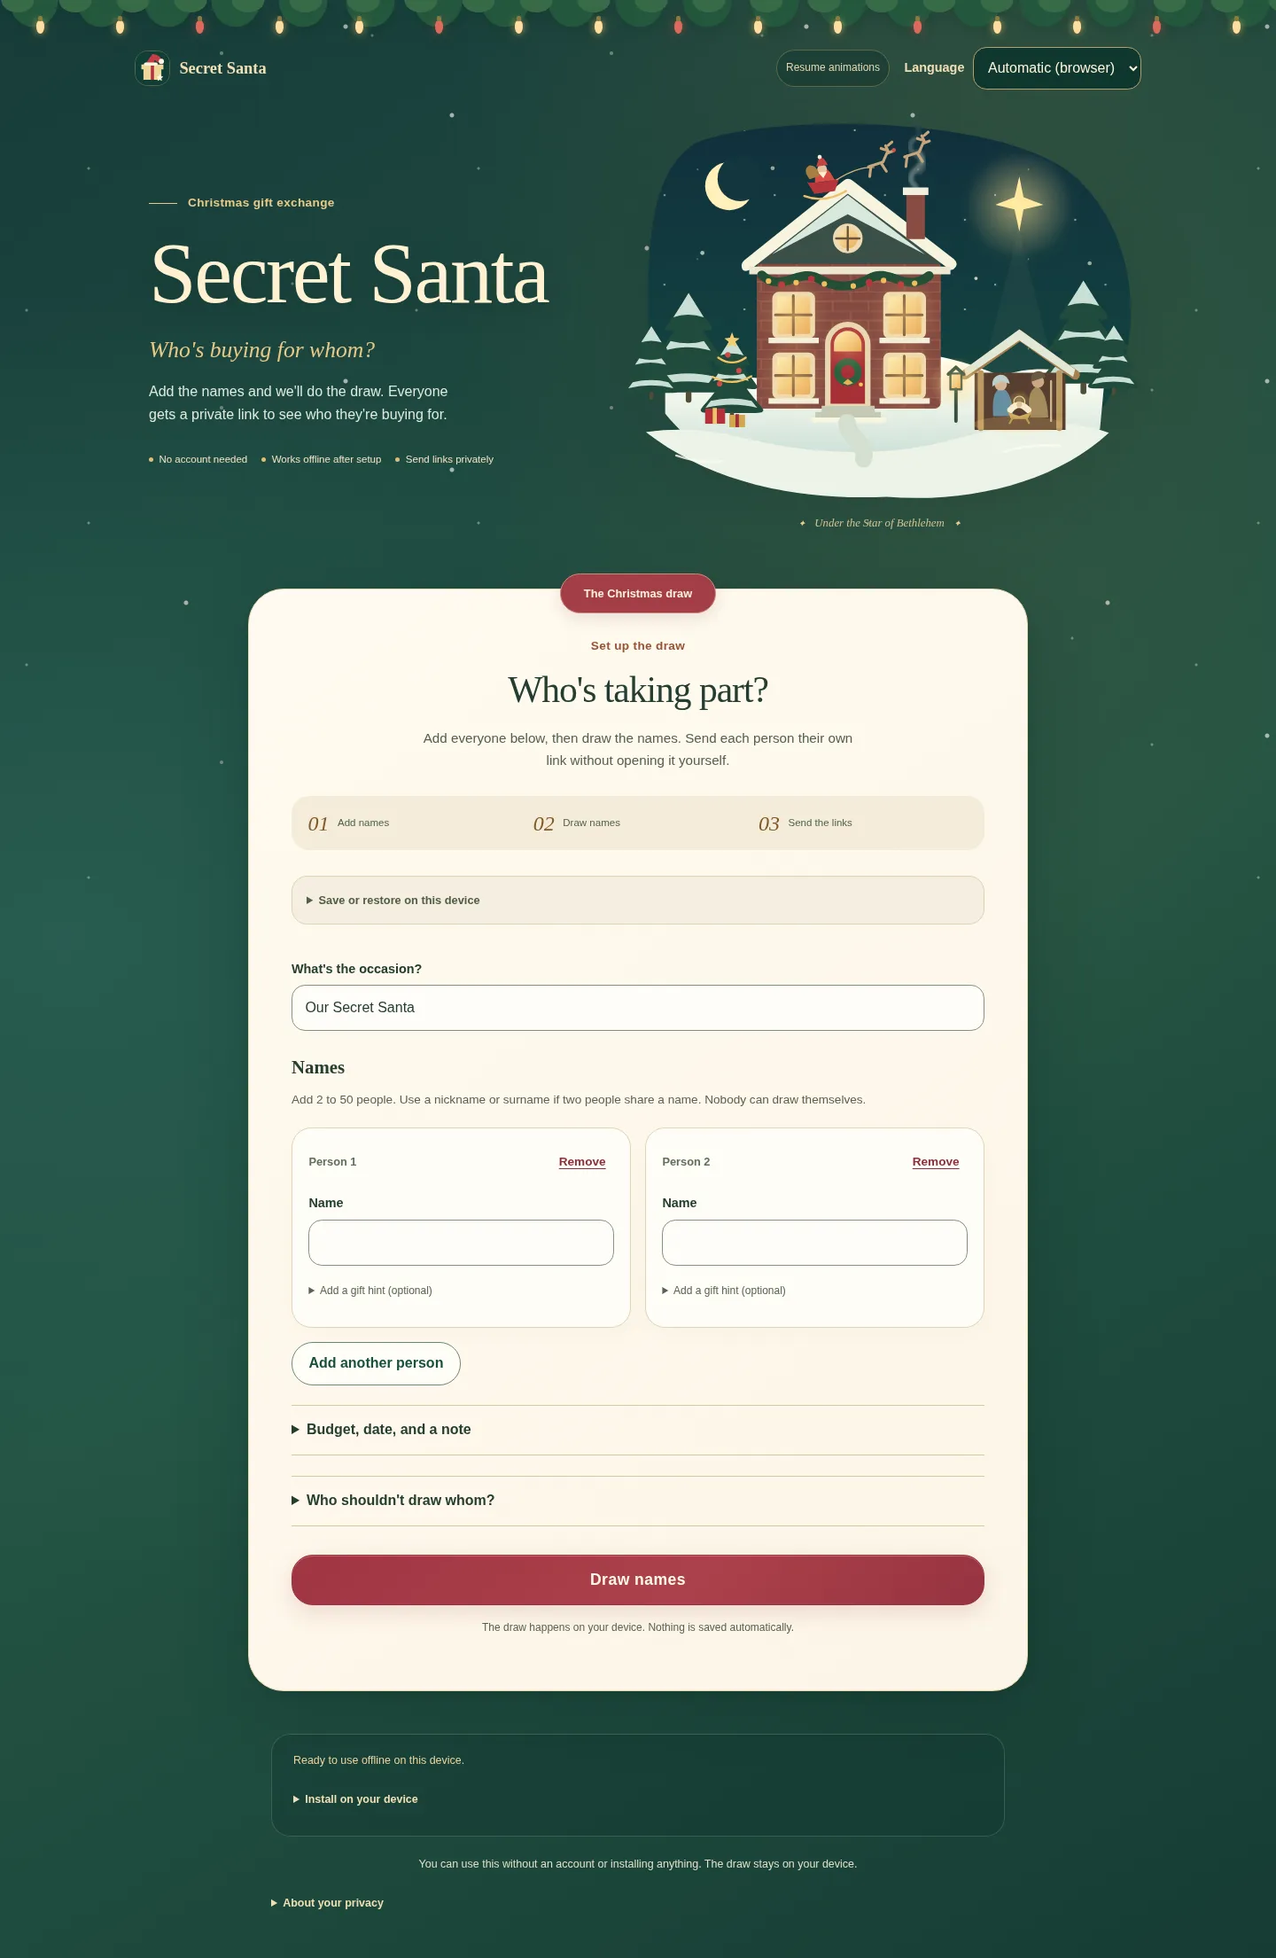
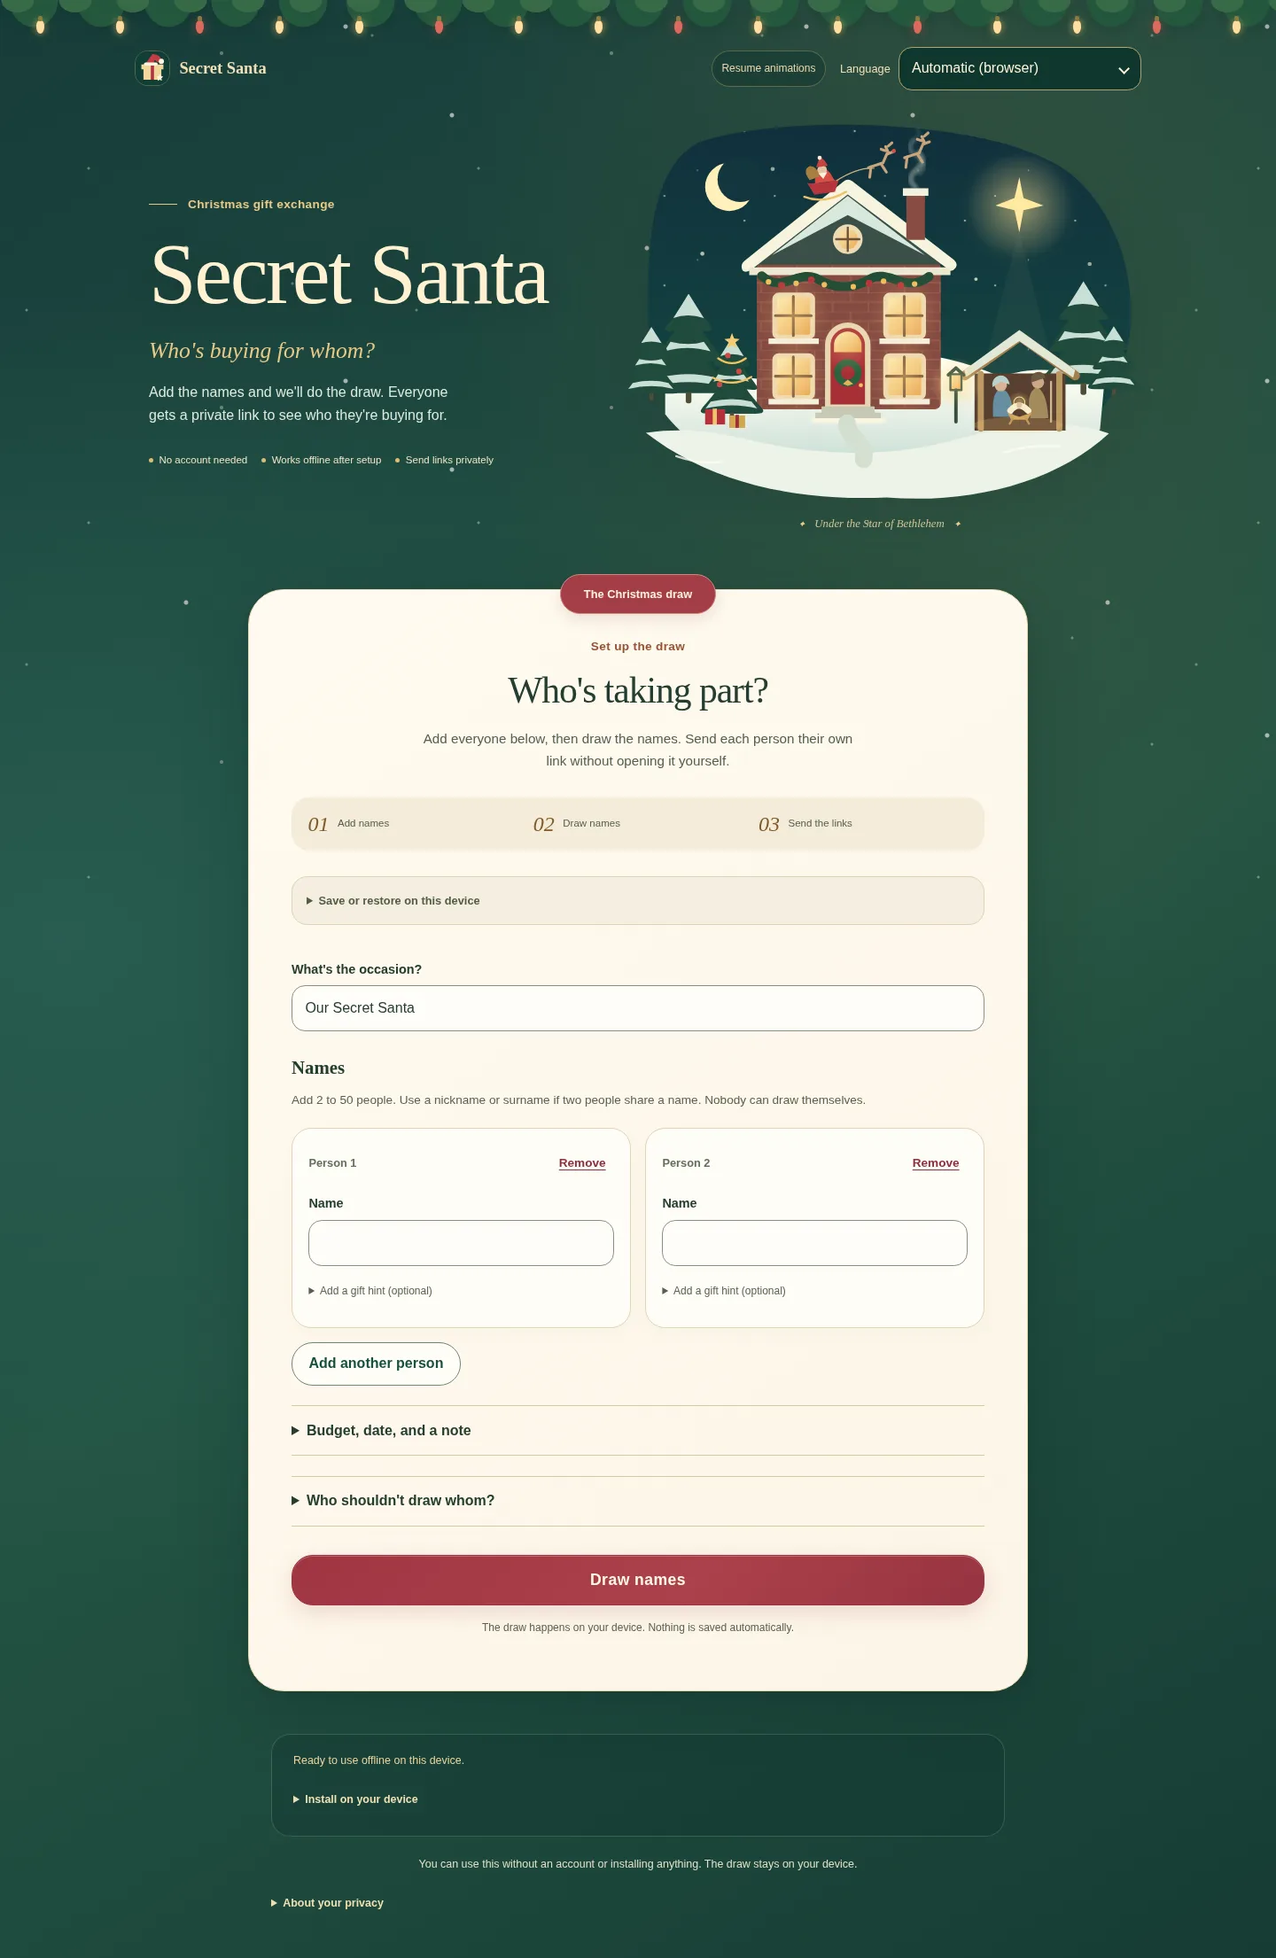
Keep the open language picker within the mobile viewport

diff --git a/apps/web/styles.css b/apps/web/styles.css
@@ -57,8 +57,20 @@ a { color: var(--green); text-underline-offset: .2em; }
 .wordmark { display: flex; gap: .65rem; align-items: center; font: 600 1.15rem/1.2 Georgia, serif; color: #f2dfb6; }
 .wordmark img { border: 1px solid #d7b66a55; border-radius: .9rem; }
 .language-picker { display: grid; grid-template-columns: auto minmax(0, 1fr); align-items: center; gap: .6rem; font-size: .8rem; min-width: 0; }
-.language-picker label { margin: 0; color: #f2dfb6; }
-.language-picker select { background: #10372f; border-color: #b9a16a; color: #fff3d7; font-size: 1rem; width: 100%; max-width: none; min-width: 0; min-height: 3rem; padding: .65rem .75rem; }
+.language-picker > span { color: #f2dfb6; }
+.language-menu { position: relative; min-width: 0; width: clamp(13rem, 19vw, 18rem); }
+.language-menu summary { display: flex; align-items: center; justify-content: space-between; gap: .8rem; min-height: 3rem; width: 100%; padding: .65rem .85rem; border: 1px solid #b9a16a; border-radius: .95rem; background: #10372f; color: #fff3d7; font-size: 1rem; font-weight: 400; list-style: none; }
+.language-menu summary::-webkit-details-marker { display: none; }
+.language-menu summary::after { content: ''; flex: 0 0 .45rem; height: .45rem; border-right: 2px solid currentColor; border-bottom: 2px solid currentColor; transform: rotate(45deg); }
+.language-menu[open] summary::after { transform: rotate(225deg); }
+.language-menu summary[aria-disabled="true"] { opacity: .6; cursor: not-allowed; }
+.language-options { position: absolute; inset-inline: 0; top: calc(100% + .45rem); width: 100%; max-width: calc(100vw - 2rem); min-height: 0; max-height: min(18rem, 45dvh); overflow-y: auto; overscroll-behavior: contain; padding: .4rem; border: 1px solid #b9a16a; border-radius: 1rem; background: #10372f; color: #fff3d7; box-shadow: 0 12px 35px #041c2255; z-index: 5; }
+.language-menu.opens-up .language-options { top: auto; bottom: calc(100% + .45rem); }
+.language-options label { display: flex; align-items: center; gap: .65rem; min-height: 3rem; margin: 0; padding: .65rem .7rem; border-radius: .65rem; font-size: 1rem; font-weight: 400; color: #fff3d7; cursor: pointer; }
+.language-options label:hover, .language-options label:focus-within { background: #295447; }
+.language-options input { flex: 0 0 1.1rem; width: 1.1rem; height: 1.1rem; min-height: 0; padding: 0; accent-color: #edc47e; }
+.language-options input:checked + span { font-weight: 650; }
+.language-options span { min-width: 0; overflow-wrap: anywhere; }
 button.motion-toggle { border-color: #e1bc7455; color: #ead5aa; background: #0c302a66; font-size: .75rem; font-weight: 500; padding: .45rem .65rem; min-height: 2.6rem; }
 .topbar :focus-visible { outline-color: #f4d28e; }
 .site-header { max-width: 1200px; margin: 1rem auto 4rem; display: grid; grid-template-columns: 1fr 1.1fr; align-items: center; padding: 1rem 2rem 0; gap: .5rem; }
@@ -175,7 +187,8 @@ footer summary { color: #f0dfb4; }
 @media (max-width: 650px) {
   .topbar { grid-template-columns: 40px minmax(0, 1fr); padding: 3.2rem 1rem 0; gap: .75rem; }
   .language-picker { grid-column: 1 / -1; width: 100%; gap: .65rem; }
-  .language-picker label { font-size: .875rem; }
+  .language-picker > span { font-size: .875rem; }
+  .language-menu { width: 100%; }
   button.motion-toggle { justify-self: end; max-width: 100%; font-size: .8rem; min-height: 2.8rem; }
   .site-header { grid-template-columns: 1fr; text-align: center; margin: 1rem auto 3.5rem; padding: 0 1.25rem; gap: 0; }
   .hero-copy { padding: 1rem .25rem 0; }

diff --git a/index.html b/index.html
@@ -23,14 +23,18 @@
     <div class="topbar">
       <div class="wordmark"><img src="./apps/web/icon.svg" width="40" height="40" alt=""><span data-i18n="app.title">Secret Santa</span></div>
       <button class="motion-toggle" type="button" disabled data-festivity-target="toggle" data-action="festivity#toggle" data-i18n="design.pause">Pause animations</button>
-      <div class="language-picker" data-controller="locale" data-action="languagechange@window->locale#detect">
-        <label for="language" data-i18n="language.label">Language</label>
-        <select id="language" disabled data-locale-target="select" data-action="change->locale#change">
-          <option value="" data-i18n="language.auto">Automatic (browser)</option>
-          <option value="en" lang="en">English</option>
-          <option value="fr" lang="fr">Français</option>
-          <option value="pt-BR" lang="pt-BR">Português (Brasil)</option>
-        </select>
+      <div class="language-picker" data-controller="locale" data-action="languagechange@window->locale#detect locale:changed@document->locale#render pointerdown@document->locale#outside focusin@document->locale#outside keydown.esc@document->locale#escape resize@window->locale#position scroll@window->locale#position">
+        <span id="language-label" data-i18n="language.label">Language</span>
+        <details class="language-menu" data-locale-target="menu" data-action="toggle->locale#position">
+          <summary id="language" aria-disabled="true" aria-labelledby="language-label language-current" aria-controls="language-options" data-locale-target="trigger" data-action="keydown.down->locale#focusOptions:prevent keydown.up->locale#focusOptions:prevent"><span id="language-current" data-locale-target="current">Automatic (browser)</span></summary>
+          <fieldset id="language-options" class="language-options" disabled data-locale-target="choices" data-action="change->locale#change click->locale#choose keydown.enter->locale#commit:prevent">
+            <legend class="sr-only" data-i18n="language.label">Language</legend>
+            <label><input type="radio" name="interface-language" value="" checked data-locale-target="option"><span data-i18n="language.auto">Automatic (browser)</span></label>
+            <label lang="en"><input type="radio" name="interface-language" value="en" data-locale-target="option"><span>English</span></label>
+            <label lang="fr"><input type="radio" name="interface-language" value="fr" data-locale-target="option"><span>Français</span></label>
+            <label lang="pt-BR"><input type="radio" name="interface-language" value="pt-BR" data-locale-target="option"><span>Português (Brasil)</span></label>
+          </fieldset>
+        </details>
       </div>
     </div>
     <header class="site-header">

diff --git a/apps/web/controllers/locale_controller.js b/apps/web/controllers/locale_controller.js
@@ -2,14 +2,68 @@ import { Controller } from '../vendor/stimulus.js';
 import { i18n, setLanguage } from '../localization.js';
 
 export default class extends Controller {
-  static targets = ['select'];
+  static targets = ['menu', 'trigger', 'current', 'choices', 'option'];
 
   connect() {
-    this.selectTarget.value = i18n.preference;
-    this.selectTarget.disabled = false;
+    this.render();
+    this.choicesTarget.disabled = false;
+    this.triggerTarget.removeAttribute('aria-disabled');
   }
 
-  change() { setLanguage(this.selectTarget.value); }
+  change(event) {
+    if (this.optionTargets.includes(event.target) && event.target.checked) setLanguage(event.target.value);
+  }
+
+  render() {
+    for (const option of this.optionTargets) option.checked = option.value === i18n.preference;
+    this.currentTarget.textContent = this.optionTargets.find(option => option.checked).nextElementSibling.textContent;
+    this.position();
+  }
+
+  choose(event) {
+    // Label activation dispatches a click on its native radio. Keyboard clicks
+    // have detail 0: keep arrows/Space usable until Enter or Escape closes it.
+    if (event.detail > 0 && this.optionTargets.includes(event.target)) this.close(true);
+  }
+
+  commit() { this.close(true); }
+
+  focusOptions() {
+    this.menuTarget.open = true;
+    this.position();
+    this.optionTargets.find(option => option.checked).focus();
+  }
+
+  close(restoreFocus = false) {
+    const wasOpen = this.menuTarget.open;
+    this.menuTarget.open = false;
+    if (wasOpen && restoreFocus) this.triggerTarget.focus({ preventScroll: true });
+  }
+
+  outside(event) {
+    if (!this.element.contains(event.target)) this.close();
+  }
+
+  escape(event) {
+    if (!this.menuTarget.open) return;
+    event.preventDefault();
+    this.close(true);
+  }
+
+  position() {
+    if (!this.menuTarget.open) return;
+    const trigger = this.triggerTarget.getBoundingClientRect();
+    if (trigger.bottom <= 0 || trigger.top >= innerHeight) {
+      this.close();
+      return;
+    }
+    const below = innerHeight - trigger.bottom - 16;
+    const above = trigger.top - 16;
+    const upwards = below < 160 && above > below;
+    this.menuTarget.classList.toggle('opens-up', upwards);
+    // Only a numeric viewport measurement reaches CSS, never user content.
+    this.choicesTarget.style.maxHeight = `${Math.max(0, Math.floor(upwards ? above : below))}px`;
+  }
 
   detect() {
     if (!i18n.preference) setLanguage('');

diff --git a/service-worker.js b/service-worker.js
@@ -1,6 +1,6 @@
 // Bump the version whenever any precached runtime file changes. Install the
 // whole release before activation; do not replace a running app without consent.
-const CACHE_VERSION = '2026-10-27-christmas-3';
+const CACHE_VERSION = '2026-10-27-christmas-4';
 const SCOPE = new URL(self.registration.scope);
 const CACHE_PREFIX = `secretsanta-shell:${encodeURIComponent(SCOPE.pathname)}:`;
 const CACHE_NAME = `${CACHE_PREFIX}${CACHE_VERSION}`;

diff --git a/docs/testing.md b/docs/testing.md
@@ -41,6 +41,7 @@ Run on Safari/iOS, Safari/macOS, Chrome/Android, desktop Chrome, Firefox, and Ed
 - [ ] Host below a subpath. Check local assets and invitations without rewriting or SPA fallback rules.
 - [ ] Check the network panel: static same-origin assets only; no fields or invitation fragments in request URLs.
 - [ ] Check English, French, and Brazilian Portuguese, browser-language detection, English fallback, and the automatic/manual language selector. Switch languages before and after drawing/revealing; no fields or assignments should change.
+- [ ] Open the language picker on each mobile browser, including landscape and enlarged text. Check the open panel stays within the screen, all choices remain reachable, radio arrows work, and Escape/outside taps/Tab dismiss it without trapping focus. Check the disclosure name and radio group with a screen reader.
 
 ## Verified in the initial implementation
 
@@ -71,7 +72,7 @@ Manual follow-ups: first-install failure UI, actual OS installation menus, iOS s
 BASE_URL=http://localhost:8000/ PLAYWRIGHT_MODULE=/tmp/opencode/secretsanta-browser/node_modules/playwright/index.mjs CHROMIUM_PATH=/usr/bin/chromium node scripts/design-smoke.mjs
 ```
 
-16 scenarios pass: every combination of en/fr/pt-BR with 320/375/390/768/1440px layouts, plus system reduced motion. They cover overflow, pause persistence, translated motion controls, and ordinary reveal behaviour. Mobile cases use touch emulation, including the reported 375 × 667px viewport. The script saves full-page screenshots in `/tmp/opencode` by default; `SCREENSHOT_DIR` selects another existing directory. Selected review snapshots are in `docs/screenshots`.
+17 scenarios pass: every combination of en/fr/pt-BR with 320/375/390/768/1440px layouts, plus a keyboard/constrained-picker scenario and system reduced motion. They cover overflow, pause persistence, translated motion controls, and ordinary reveal behaviour. Mobile cases use touch emulation, including the reported 375 × 667px viewport. The script saves screenshots in `/tmp/opencode` by default; `SCREENSHOT_DIR` selects another existing directory. Selected review snapshots are in `docs/screenshots`.
 
 For the optional accessibility checks, add only external tooling:
 
@@ -80,8 +81,8 @@ npm install --prefix /tmp/opencode/secretsanta-browser --no-save --package-lock=
 BASE_URL=http://localhost:8000/ PLAYWRIGHT_MODULE=/tmp/opencode/secretsanta-browser/node_modules/playwright/index.mjs AXE_MODULE=/tmp/opencode/secretsanta-browser/node_modules/@axe-core/playwright/dist/index.mjs CHROMIUM_PATH=/usr/bin/chromium node scripts/accessibility-smoke.mjs
 ```
 
-15 axe WCAG A/AA scenarios pass: 5 UI states in each language, including expanded form options, results, modal confirmation, invitation guard, and revealed assignment. No automated violations were reported. Keyboard/screen-reader review and physical devices remain required manual follow-ups. The 35 Node tests, 12 UI scenarios, and 6 real-worker scenarios also pass with the Christmas art included in offline caching.
+18 axe WCAG A/AA scenarios pass: 6 UI states in each language, including expanded form options, the open language picker, results, modal confirmation, invitation guard, and revealed assignment. No automated violations were reported. Screen-reader review and physical devices remain required manual follow-ups. The 35 Node tests, 12 UI scenarios, and 6 real-worker scenarios also pass with the Christmas art included in offline caching.
 
 The copy/motion follow-up adds an English HTML/catalogue synchronisation check. The design scenarios verify that the sleigh, smoke, windows, star, and snowflakes really have running animation timelines; pausing stops every ambient timeline, including its clock. They also test live reduced-motion changes and verify that paused/reduced entry effects never leave invitation cards hidden. Updated desktop/mobile screenshots were inspected, and the added illustration layers are included in the offline coverage check.
 
-The mobile-picker follow-up checks 16px text, a 48px minimum hit area, full-row fluid sizing, and centre-point hit testing. At each touch width it opens the native picker with a real tap, commits Automatic/English/French/Portuguese using native arrow/Enter navigation, and checks both selected value and translated document language. It does not use `selectOption()` for this interaction regression. Actual Safari/iOS selection and zoom still require a physical-device check.
+The mobile-picker follow-up checks 16px text, 48px minimum rows, fluid sizing, and centre-point hit testing. The original native-popup test did not check the popup's bounds. The replacement uses native details and radios in an in-page panel: tests tap it open, check every panel edge against the viewport, verify no internal horizontal overflow, and tap Automatic/English/French/Portuguese. Separate checks use native radio arrow navigation, Enter/Escape, Tab, and outside clicks. They also cover 667 × 375px landscape, a 375 × 280px short viewport, and doubled root text size at 320px, including reaching the last choice by scrolling the panel. A screenshot records the open French picker at 375 × 667px. Actual Safari/iOS, browser zoom, and screen readers still require manual checks.

diff --git a/docs/design.md b/docs/design.md
@@ -20,19 +20,20 @@ Every continuous effect uses the shared `ambient-motion` class. Pausing freezes 
 
 ## Mobile language selector
 
-The toolbar uses a grid rather than shrinking the language control alongside the animation button. On narrow screens the selector gets its own full-width row, with a labelled, flexible-width native select. Its text remains at least 16px and its hit area at least 48px high; larger text also avoids the common small-input zoom behaviour on iOS. No custom menu or pointer-handling code replaces the native picker.
+The language picker occupies a full-width toolbar row on narrow screens. A native details/summary disclosure opens a labelled fieldset of native radio controls. The open panel matches the trigger width, wraps long labels, and scrolls internally when vertical space is limited. A small Stimulus controller measures the available height and opens the panel above the trigger when needed. Text is at least 16px and choice rows are at least 48px high.
 
-Regression checks use emulated touch at 320px, 375 × 667px, and 390px in all 3 languages. They tap the actual select, verify that the native popup opens, commit each choice with native keyboard navigation, and check language changes and overflow. This covers the web control in Chromium emulation, not physical iOS picker behaviour. The service worker version was bumped so existing installs can load the revised markup and stylesheet through the normal update prompt.
+The earlier native select fix only checked the closed control and popup opening. The user's screenshot showed the browser-owned popup overflowing the emulated viewport. The in-page panel now has directly testable bounds. Touch checks open it at 320px, 375 × 667px, and 390px in all 3 languages, measure every edge against the viewport, and select every choice. Additional checks cover keyboard navigation, Escape, outside clicks, focus return, landscape, short screens, and doubled root text size. Physical iOS and screen-reader review remain unverified. The worker version was bumped for the revised runtime.
 
 ## Review snapshots
 
 - [Desktop organiser, 1440px](screenshots/desktop.webp)
 - [Mobile organiser, 390px](screenshots/mobile.webp)
+- [Open French language picker, 375 × 667px](screenshots/language-open.webp)
 
-Snapshots show effects paused for inspection and contain no personal draw data. They are review assets, not runtime assets. They are not precached.
+Organiser snapshots show effects paused; the open-picker snapshot keeps effects running. None contains personal draw data. These review assets are not precached.
 
 ## Verification
 
-The design smoke script checks 320px, 375px, 390px, 768px, and 1440px in English, French, and Brazilian Portuguese. It checks overflow, pausing and persistence, normal reveal behaviour, and system reduced motion. At mobile widths it also checks native-picker touch opening, readable text, hit-area size, and language changes. Desktop, mobile, and reveal screenshots were inspected.
+The design smoke script checks 320px, 375px, 390px, 768px, and 1440px in English, French, and Brazilian Portuguese. It checks overflow, pausing and persistence, normal reveal behaviour, and system reduced motion. At mobile widths it checks the open options panel, touch selection, readable text, hit-area size, and language changes. Desktop, mobile, open-picker, and reveal screenshots were inspected.
 
-The optional axe audit runs WCAG A/AA rules against organiser/options, invitation cards, redraw dialog, pre-reveal, and revealed views in all 3 languages. These automated checks do not establish full accessibility conformance. Screen-reader use, physical-device touch behaviour, actual zoom, and native OS interfaces still need manual review.
+The optional axe audit runs WCAG A/AA rules against organiser/options, the open language picker, invitation cards, redraw dialog, pre-reveal, and revealed views in all 3 languages. These automated checks do not establish full accessibility conformance. Screen-reader use, physical-device touch behaviour, actual zoom, and native OS interfaces still need manual review.
